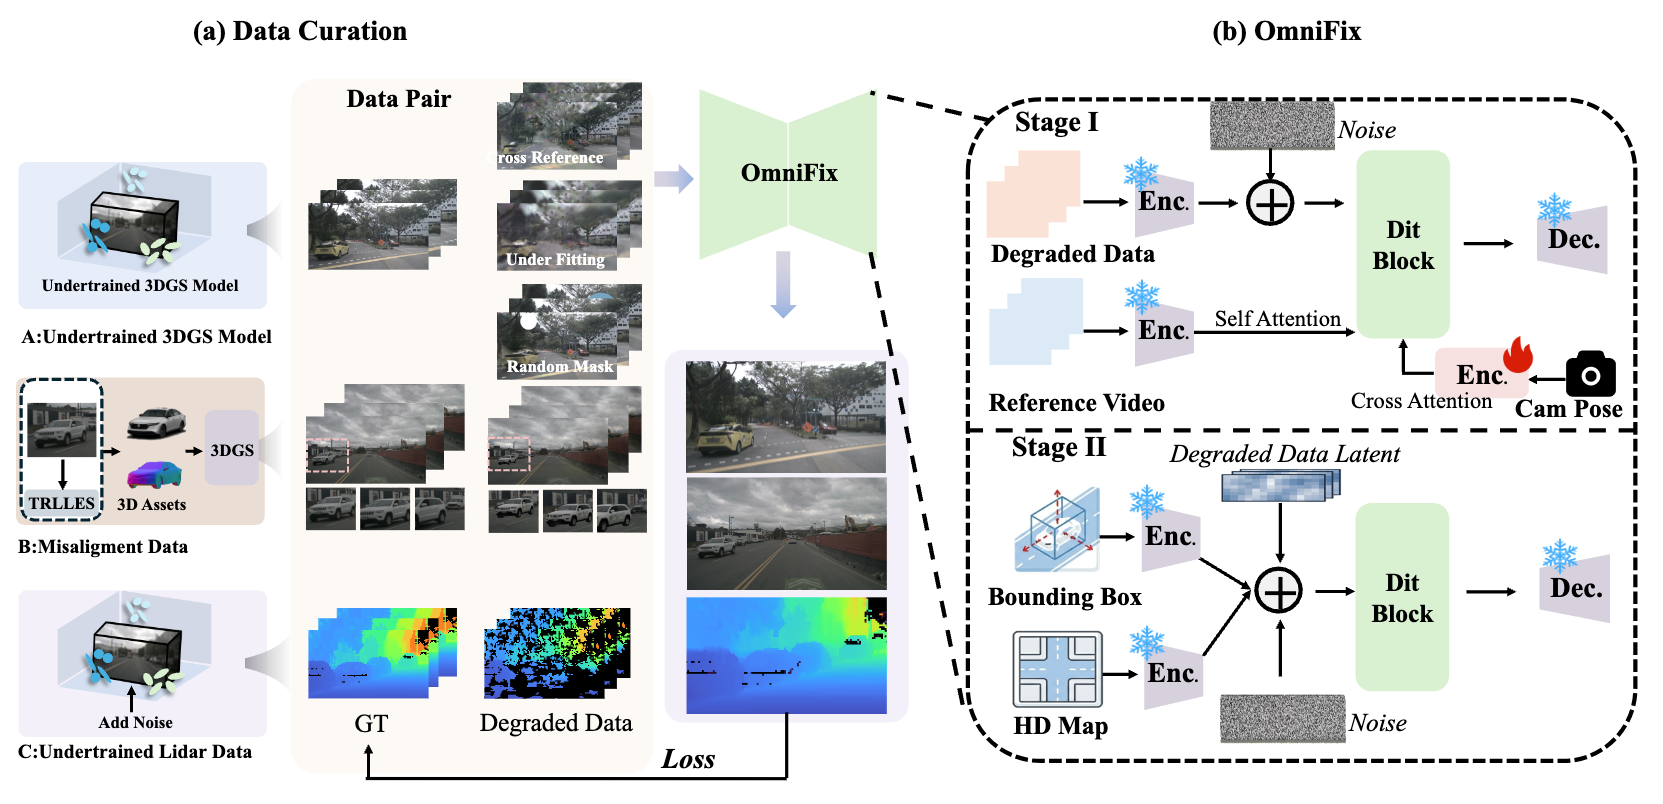
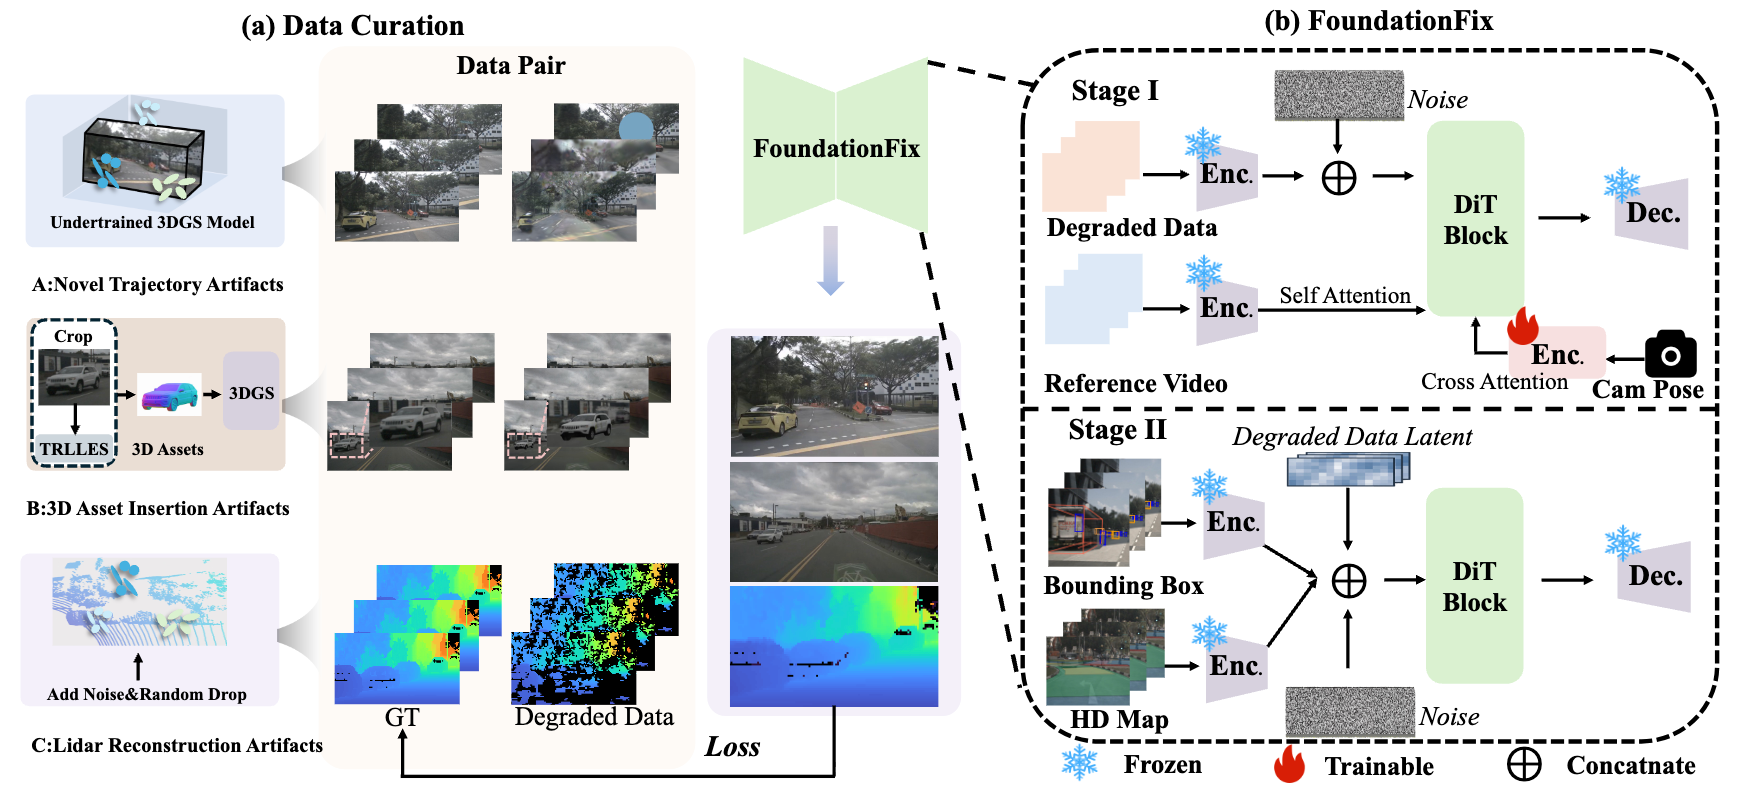
update

diff --git a/_pages/about.md b/_pages/about.md
@@ -62,7 +62,7 @@ My research interests include **Generative Models**,  **Robotics**, **Autonomous
   </div>
   <div class='paper-box-text' markdown="1">
 
-**FoundationFix: A Foundation Model for High-Fidelity Driving Scene Refinement**
+**FoundationFix: One Model to Fix Vehicles, Scenes, and LiDAR Across Driving Scenes**
 
 **S Han**, Gen Li, Nan Wang, Bohan Li, Ziyang Yan, Chen Hua, Tiecheng Sun, Hao Zhao
 